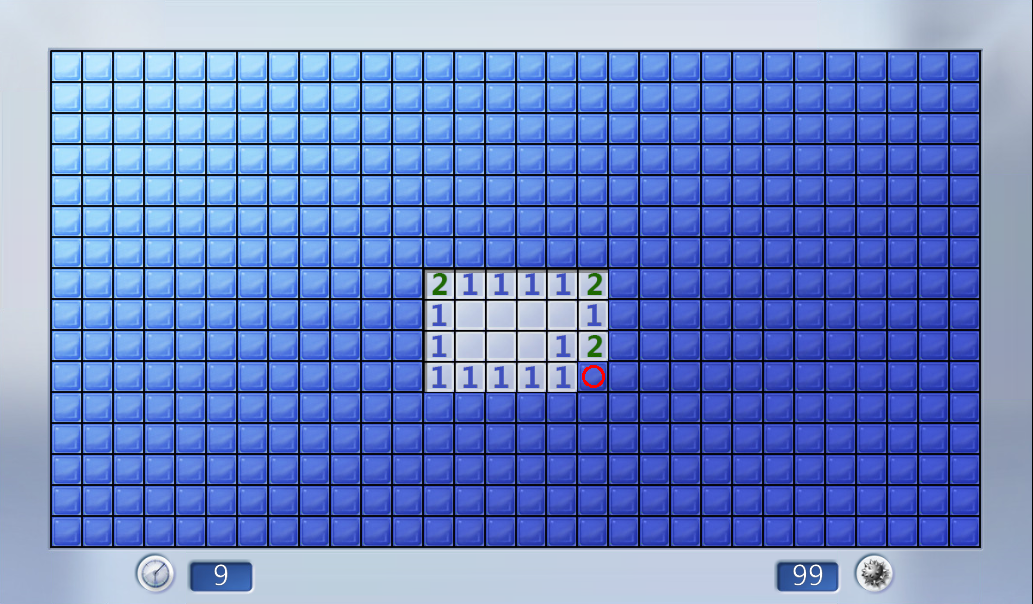
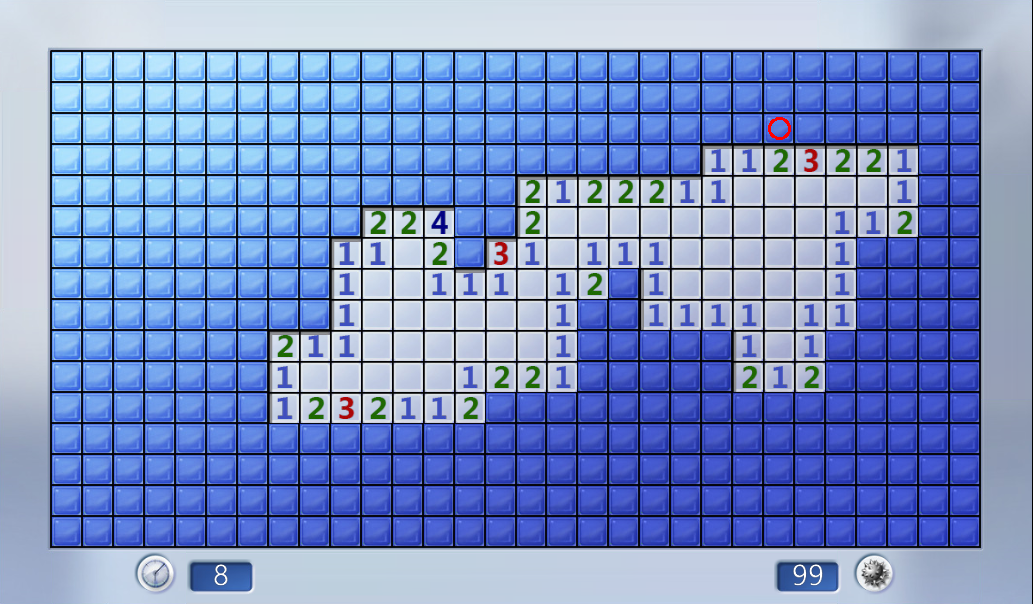
消除顺序依赖导致的高分被低分覆盖问题

Changed region(s): [[0.2478, 0.1788, 0.8984, 0.7152]]

diff --git a/src/board.py b/src/board.py
@@ -132,6 +132,18 @@ class Board:
         closed_baseline = board_info.get('closed_baseline')
         tile_th = 0.25  # threshold for number templates
         open_th = 0.35
+        MARGIN = 1  # remove 1px dark border from open cells before matching content templates
+
+        def match_with_margin(cell_img, template, margin):
+            """Match cell_img against template, both cropped to interior region."""
+            if margin > 0 and template.shape[0] > 2*margin and template.shape[1] > 2*margin:
+                inner = cell_img[margin:-margin, margin:-margin]
+                tmpl_inner = template[margin:-margin, margin:-margin]
+                res = cv2.matchTemplate(inner, tmpl_inner, cv2.TM_CCOEFF_NORMED)
+            else:
+                res = cv2.matchTemplate(cell_img, template, cv2.TM_CCOEFF_NORMED)
+            _, max_val, _, _ = cv2.minMaxLoc(res)
+            return max_val
 
         for r in range(rows):
             for c in range(cols):
@@ -149,57 +161,54 @@ class Board:
 
                 cell_img = screen[y : y + crop_h, x : x + crop_w]
 
-                # 1. Number templates check (1-5.png) — take best match, skip mine/flag
-                matched = False
+                # Pick the best match among all content templates (open_blank, numbers, flag/mine)
                 best_val = None
                 best_score = -1.0
+
+                # 1a. Open blank
+                tmpl = self.matcher.templates.get("open_blank.png")
+                if tmpl is not None:
+                    open_score = match_with_margin(cell_img, tmpl, MARGIN)
+                else:
+                    open_score = 0.0
+                logging.info(f"open_blank.png: {open_score}")
+                if open_score > open_th and open_score > best_score:
+                    best_score = open_score
+                    best_val = -2
+
+                # 1b. Number templates
                 for name, template in self.matcher.templates.items():
-                    # logging.info(f"number...")
                     if name not in ("1.png", "2.png", "3.png", "4.png", "5.png"):
                         continue
                     logging.info(f"name: {name}, template.shape: {template.shape} ")
                     if cell_img.shape[0] < template.shape[0] or cell_img.shape[1] < template.shape[1]:
                         continue
-                    score = self.matcher.match_cell(cell_img, name)
+                    score = match_with_margin(cell_img, template, MARGIN)
                     logging.info(f"score: {score}")
                     if score > tile_th and score > best_score:
                         best_score = score
                         best_val = self.matcher.map_value(name)
-                if best_val is not None:
-                    matrix[r, c] = best_val
-                    scores[r, c] = best_score
-                    matched = True
 
-                if matched:
-                    continue
-
-                # 1b. Mine/flag template checks (higher threshold to avoid false positives)
+                # 1c. Mine/flag templates
                 for name, template in self.matcher.templates.items():
-                    # logging.info(f"mine/flag....")
                     if name not in ('mine.png', 'flag.png'):
                         continue
                     logging.info(f"name: {name}, template.shape: {template.shape} ")
                     if cell_img.shape[0] < template.shape[0] or cell_img.shape[1] < template.shape[1]:
                         continue
-                    score = self.matcher.match_cell(cell_img, name)
+                    score = match_with_margin(cell_img, template, MARGIN)
                     logging.info(f"score: {score}")
-                    if score > 0.50:
+                    if score > 0.50 and score > best_score:
+                        best_score = score
                         best_val = self.matcher.map_value(name)
-                        matrix[r, c] = best_val
-                        scores[r, c] = score
-                        matched = True
-                        break
 
-                # 2. Open blank check
-                open_score = self.matcher.match_cell(cell_img, "open_blank.png")
-                logging.info(f"open_blank.png: {open_score}")
-                if open_score > open_th:
-                    matrix[r, c] = -2
-                    scores[r, c] = open_score
+                if best_val is not None:
+                    matrix[r, c] = best_val
+                    scores[r, c] = best_score
                     continue
 
                 # 3. Closed-tile check with adaptive threshold
-                closed_score = self.matcher.match_cell(cell_img, "closed_tile.png")
+                closed_score = match_with_margin(cell_img, self.matcher.templates.get("closed_tile.png"), 0)
                 logging.info(f"closed_tile.png: {closed_score}")
                 if closed_baseline is not None:
                     ref = closed_baseline[r, c]

diff --git a/debug_diag.py b/debug_diag.py
@@ -1,0 +1,76 @@
+import sys, os, cv2, numpy as np, time, logging
+logging.disable(logging.CRITICAL)
+sys.path.insert(0, r'D:\workspace\minesweeper-bot')
+from src.capture import Capture
+from src.matcher import Matcher
+from src.board import Board
+
+c = Capture()
+m = Matcher()
+b = Board(c, m)
+
+info = b.find_board()
+if info is None:
+    print('Board not found')
+    sys.exit(1)
+
+rows = info['rows']
+cols = info['cols']
+step = info['cell_w']
+win_ox = info.get('win_ox', info['origin_x'] - c.window_offset_x)
+win_oy = info.get('win_oy', info['origin_y'] - c.window_offset_y)
+
+print(f"cols={cols} rows={rows}")
+print(f"win_ox={win_ox} win_oy={win_oy}")
+print(f"cell_w={step} cell_h={info['cell_h']}")
+
+# analyze board
+board_info = {
+    'origin_x': info['origin_x'], 'origin_y': info['origin_y'],
+    'cell_w': step, 'cell_h': info['cell_h'],
+    'rows': rows, 'cols': cols,
+    'win_ox': win_ox, 'win_oy': win_oy,
+}
+baseline = b.compute_closed_baseline(board_info)
+board_info['closed_baseline'] = baseline
+print(f"\nBaseline range: {baseline.min():.2f} ~ {baseline.max():.2f}")
+
+matrix, scores = b.analyze_board(board_info)
+
+for r in [0, 1, 2, 7, 8]:
+    print(f"\n=== Row {r} logical (cols 14-18) ===")
+    for ci in range(14, min(19, cols)):
+        print(f"  col {ci}: v={matrix[r,ci]} s={scores[r,ci]:.4f}")
+
+# Save cell crops + template scores
+os.makedirs(r'D:\workspace\minesweeper-bot\debug_cells', exist_ok=True)
+closed_tmpl = m.templates.get('closed_tile.png')
+crop_w = closed_tmpl.shape[1]
+crop_h = closed_tmpl.shape[0]
+screen = c.get_screenshot()
+
+cells_to_check = [
+    (0,15),(0,16),(0,17),(0,18),
+    (1,16),(1,17),(1,18),
+    (2,15),(2,16),(2,17),(2,18),
+    (7,14),(7,15),(7,16),(7,17),(7,18),
+    (0,0),(0,1)
+]
+
+print("\n=== Per-cell template matching ===")
+for r, ci in cells_to_check:
+    x = int(win_ox - crop_w/2 + ci * step + 0.5)
+    y = int(win_oy - crop_h/2 + r * step + 0.5)
+    cell_img = screen[y:y+crop_h, x:x+crop_w]
+    fname = f"cell_{r}_{ci}.png"
+    cv2.imwrite(f"D:\\workspace\\minesweeper-bot\\debug_cells\\{fname}", cell_img)
+    print(f"\nCell ({r},{ci}) at crop ({x},{y}):")
+    for name in ['1.png','2.png','3.png','4.png','5.png','flag.png','mine.png','open_blank.png','closed_tile.png']:
+        template = m.templates.get(name)
+        if template is None: continue
+        if cell_img.shape[0] < template.shape[0] or cell_img.shape[1] < template.shape[1]: continue
+        res = cv2.matchTemplate(cell_img, template, cv2.TM_CCOEFF_NORMED)
+        _, score, _, _ = cv2.minMaxLoc(res)
+        print(f"  {name}: {score:.4f}")
+
+print("\nDone. Images saved to debug_cells/")

diff --git a/src/solver.py b/src/solver.py
@@ -46,8 +46,11 @@ class Solver:
                 neighbors = self.get_neighbors(r, c)
                 unknowns = [n for n in neighbors if self.grid[n[0], n[1]] == -1]
                 mines = [n for n in neighbors if self.grid[n[0], n[1]] == 9 or self.grid[n[0], n[1]] == 10]
+                open_unrec = [n for n in neighbors if self.grid[n[0], n[1]] == -3]
                 
-                if not unknowns: continue
+                # -3 is open but unrecognized (safe, not a mine)
+                if not unknowns and not open_unrec:
+                    continue
                 
                 # Case A: All remaining unknowns must be mines
                 if len(unknowns) == (val - len(mines)):
